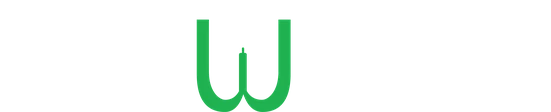
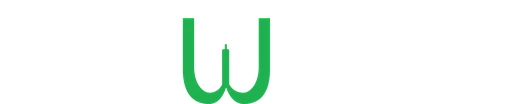
assets: add the fourth-tier award and four-tier podium art
Both are staged, not yet wired: nothing references them until the Prizes
grid grows its fourth card, so the live three-card layout is untouched.

podium-4tier gets its own TARGETS entry rather than replacing podium, so
the pipeline emits a webp instead of copying the raw PNG through, and the
swap is a one-line rename when the card lands.

newera-mark re-exports at 512x104 from the same recoloured master.

diff --git a/LandingPage-Final/scripts/optimize-images.py b/LandingPage-Final/scripts/optimize-images.py
@@ -32,10 +32,13 @@ TARGETS = {
     "streak":            (2400,  400, True,  82),
     "particles":         (1600, 1600, True,  82),
     "podium":            (1800,  650, True,  85),
+    # Four-tier replacement, staged until the Prizes grid grows a fourth card.
+    "podium-4tier":      (1800,  650, True,  85),
     "newera-mark":       ( 512,  512, True,  90),
     "trophy-1":          ( 720,  720, True,  88),
     "trophy-2":          ( 640,  640, True,  88),
     "trophy-3":          ( 640,  640, True,  88),
+    "trophy-4":          ( 640,  640, True,  88),
     "icon-dates":        ( 360,  360, True,  90),
     "icon-capital":      ( 360,  360, True,  90),
     "icon-win":          ( 360,  360, True,  90),
